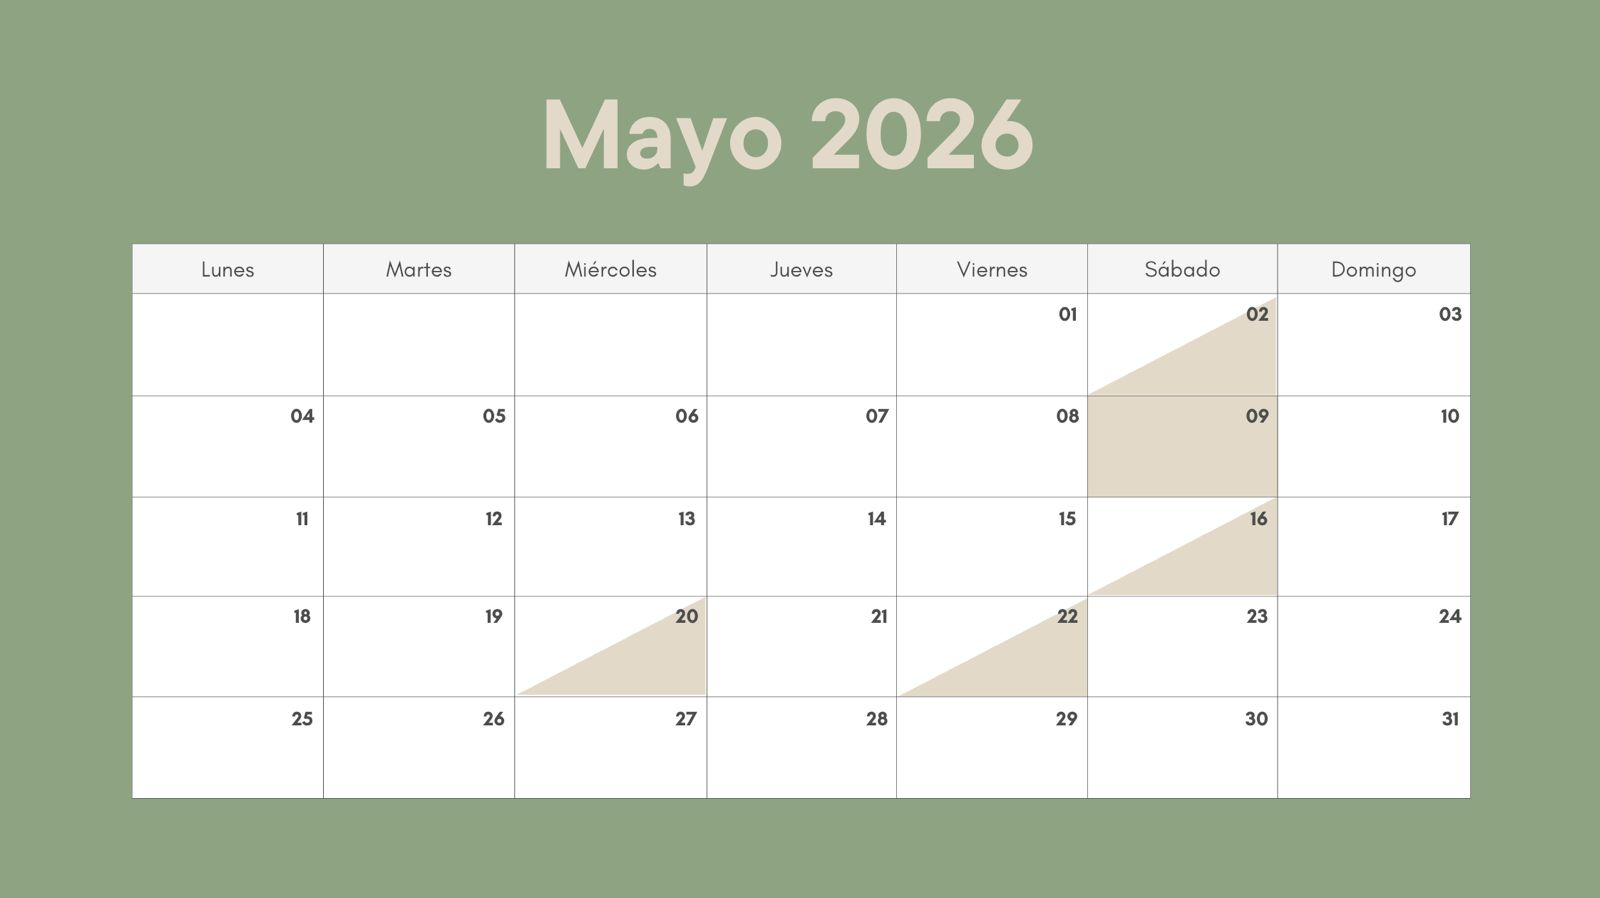
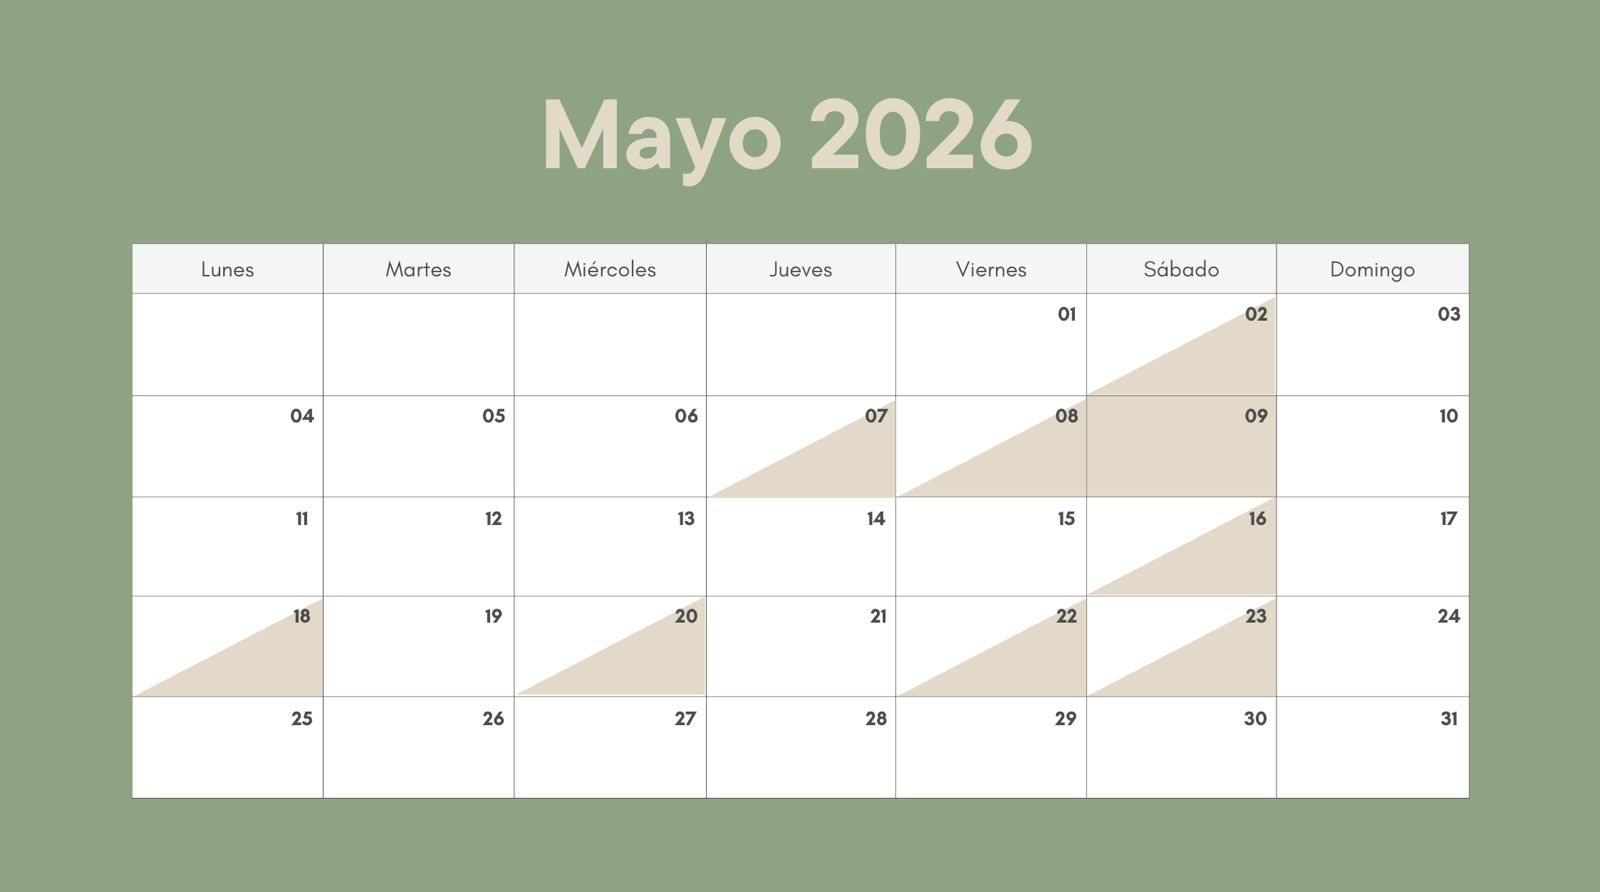
cambio de mes de mayo y quitado abril

diff --git a/Pagina web/index.html b/Pagina web/index.html
@@ -265,9 +265,6 @@
     <h2>Calendario de Reservas</h2>
     <div class="calendar-carousel">
   <div class="calendar-slide active">
-    <img src="img/calendario/abril.png" alt="Abril 2025">
-  </div>
-  <div class="calendar-slide">
     <img src="img/calendario/mayo.png" alt="Mayo 2025">
   </div>
   <div class="calendar-slide">
